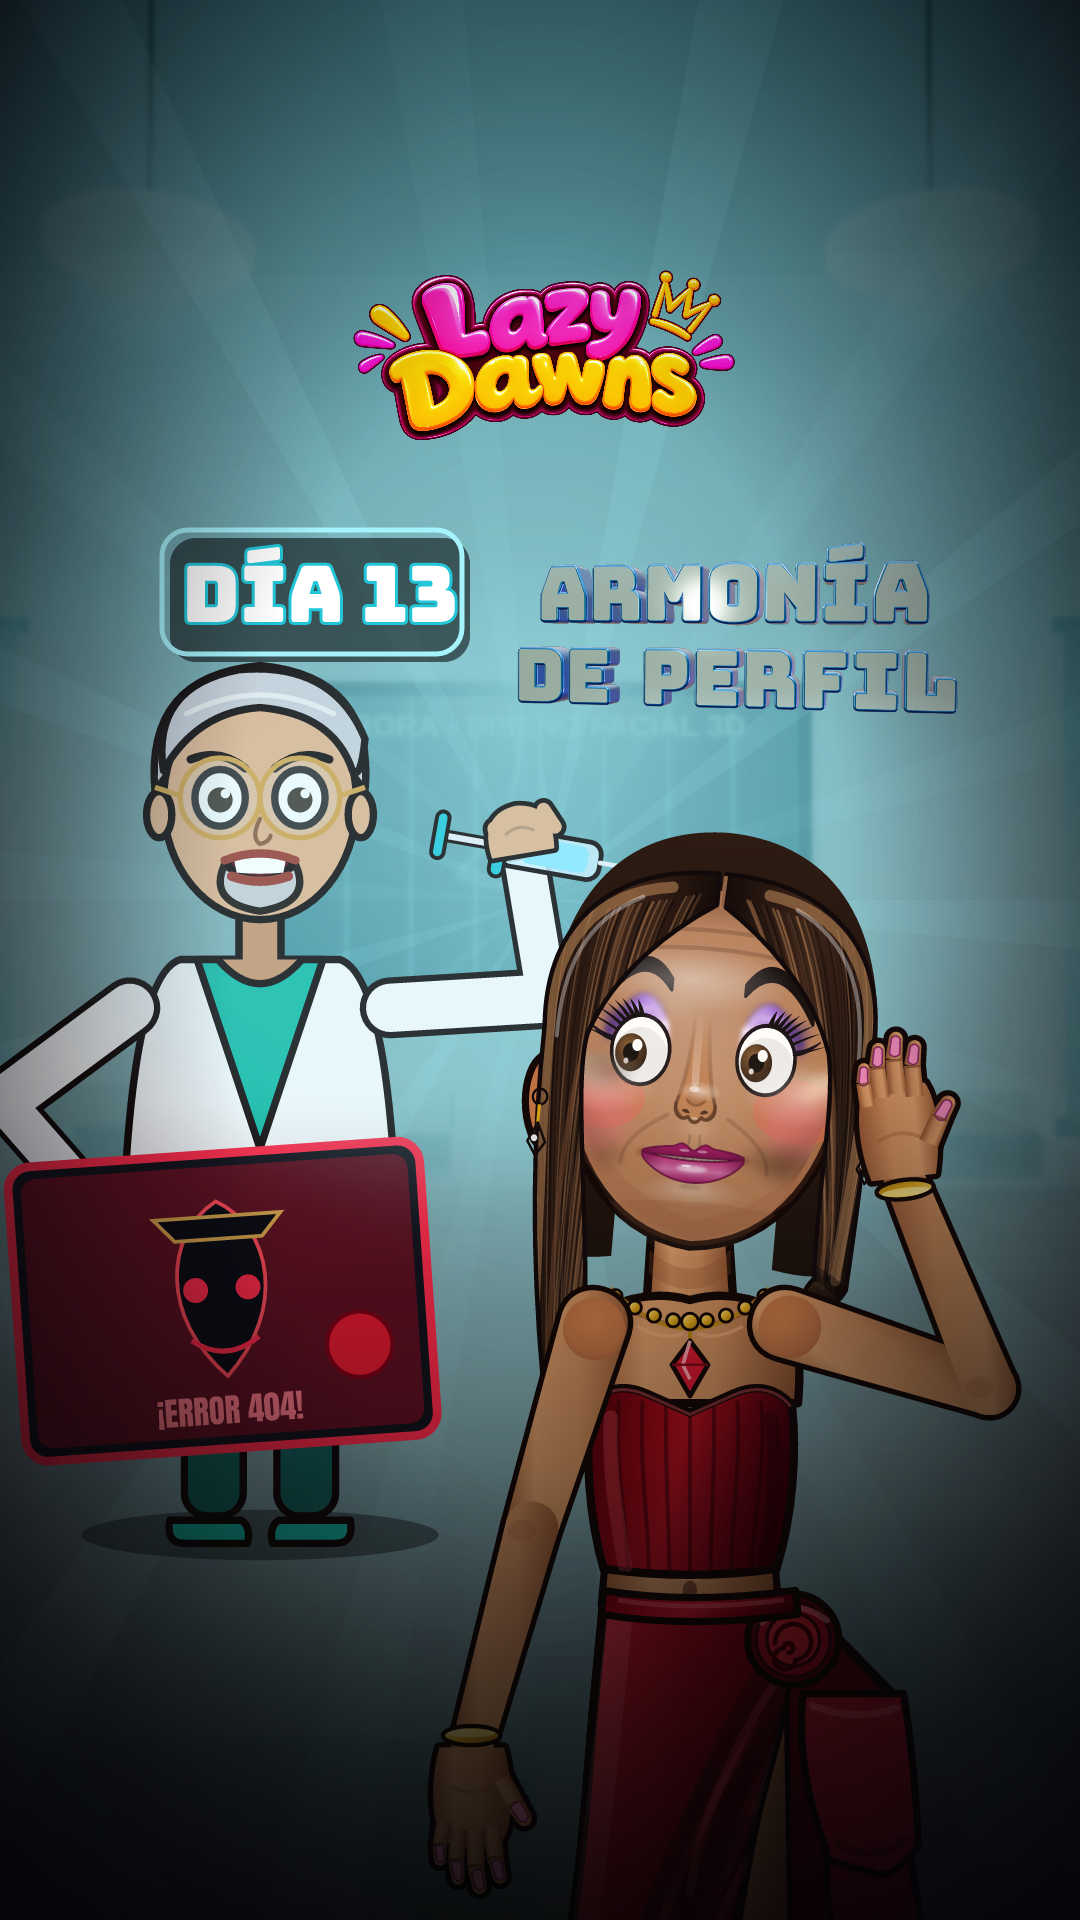
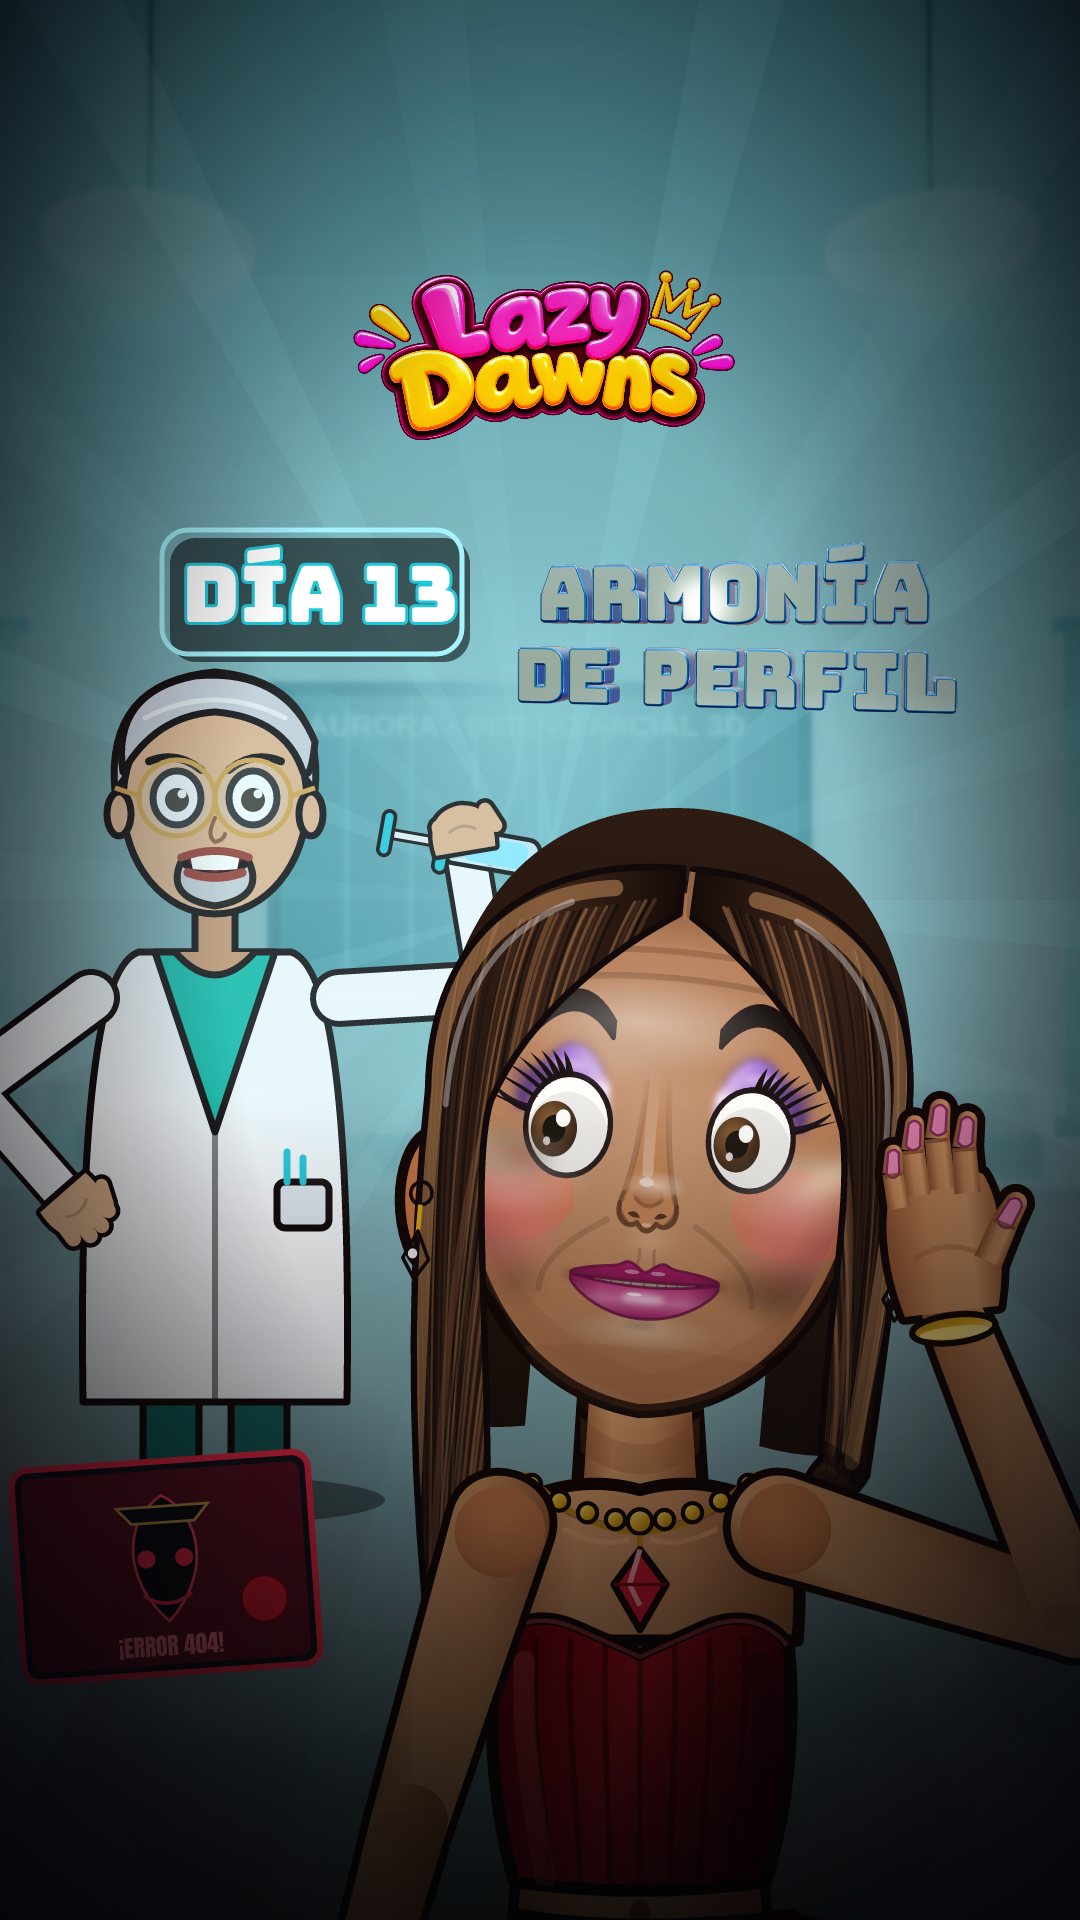
Portada 13: Lazy mas cerca; regla de cercania
Claude-Session: https://claude.ai/code/session_01VDdbgAKTwVog87zPcVcZjJ

diff --git a/lazy-dawns/README.md b/lazy-dawns/README.md
@@ -213,3 +213,4 @@ Cada voto ofrece 2 opciones del banco de abajo (las que no hayan ganado se recic
 - SECUENCIA LOGICA (creador): los mensajes y todo evento deben seguir una secuencia coherente (quien escribe, a quien, respuestas en orden; la pista debe tener sentido: ej. Mari felicita la nariz nueva sin que Lazy le haya contado = pista).
 - PORTADAS (creador): la protagonista aparece de medio cuerpo hacia arriba y grande; cada portada con relacion/pose DISTINTA con el/los personajes extra detras.
 - PORTADAS DE PELICULA (creador, todas en adelante): protagonista de medio cuerpo hacia arriba; pose y relacion distintas con los extras; incluir objetos/personajes que dan trama (dia 11: tela roja rasgada; dia 12: linterna/apagon; dia 13: pantalla hackeada de M). Props definidos en propsSvg de build_cover2.mjs.
+- PORTADAS: Lazy CERCA (plano medio-cercano, cara grande, hombros arriba); extras y props visibles pero secundarios.
